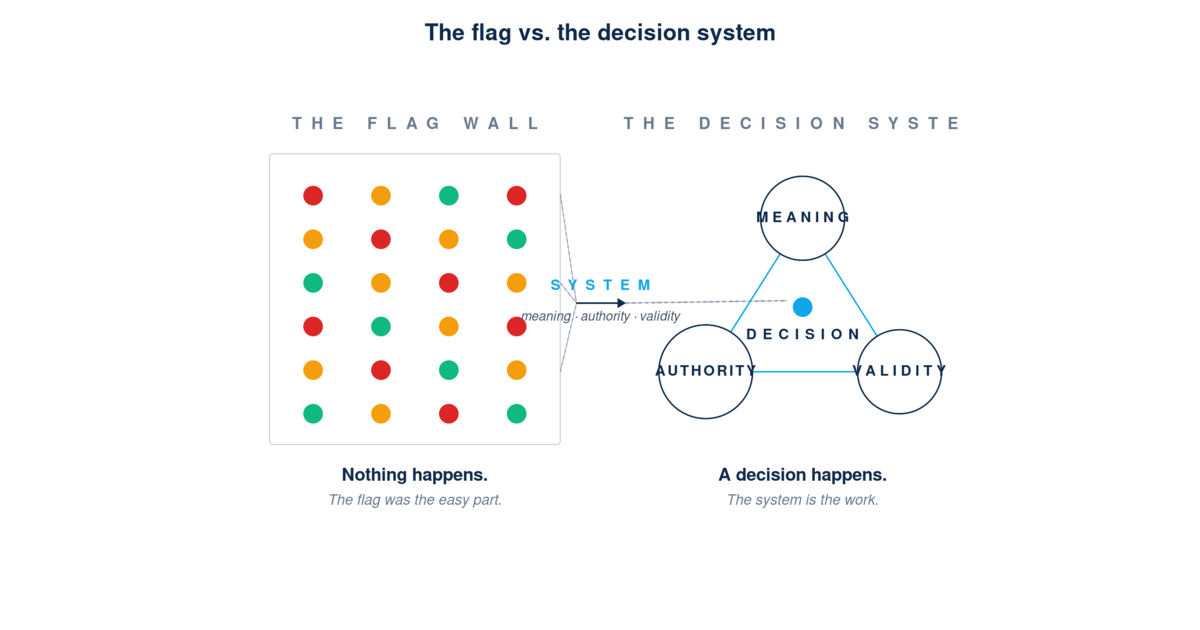
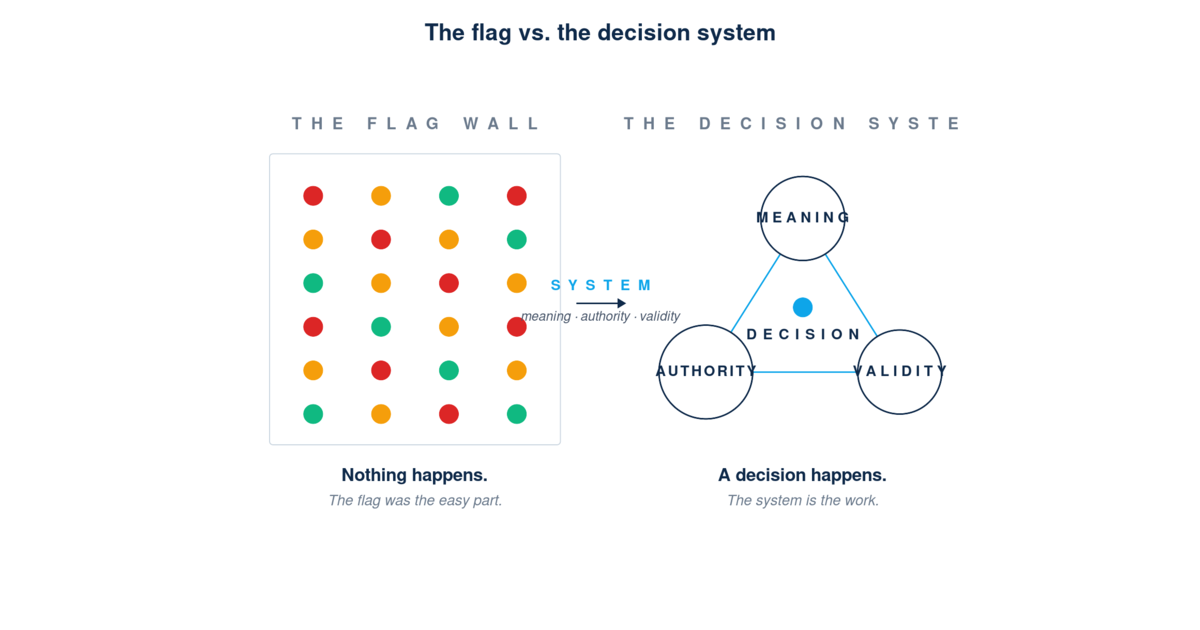
Swap 'confident nonsense at speed' → 'confident output that cannot close a decision' across figure + essay; clean up flag-vs-system convergence lines

diff --git a/app/library/essays.tsx b/app/library/essays.tsx
@@ -4915,7 +4915,7 @@ export const ESSAYS: Essay[] = [
     date: "2026-07-01",
     readingTime: "13 min read",
     summary:
-      "Most “data problems” are decision-system problems. Three things fail at the faucet — meaning, authority, and validity — and detach any one from the other two and the system produces confident nonsense at speed. This is the umbrella framework that unifies the Analytic Bytes library.",
+      "Most “data problems” are decision-system problems. Three things fail at the faucet — meaning, authority, and validity — and detach any one from the other two and the system produces confident output that cannot close a decision. This is the umbrella framework that unifies the Analytic Bytes library.",
     cover: "/library/covers/the-decision-system.svg",
     arc: "integration-governance",
     hidden: false,
@@ -4990,7 +4990,7 @@ export const ESSAYS: Essay[] = [
           that consistent signal, and when. Validity asks whether the
           consistent thing is true enough to be worth acting on at all.
           Detach any one from the other two and the system doesn’t
-          degrade gracefully — it produces confident nonsense at speed.
+          degrade gracefully — it produces confident output that cannot close a decision.
           Get all three right and the flag becomes a decision. Miss any
           one and you have a very expensive way of producing a red dot.
         </P>
